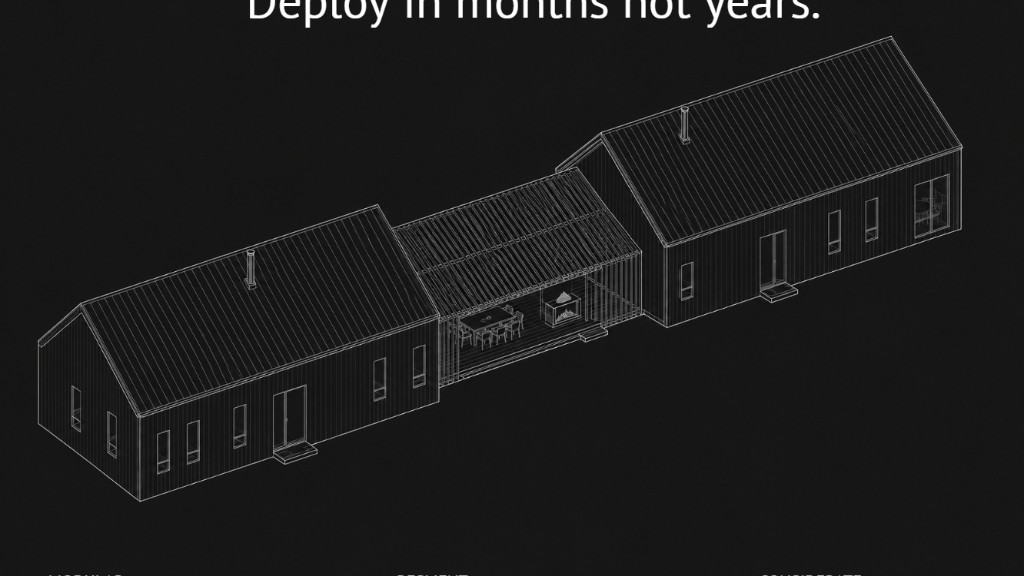
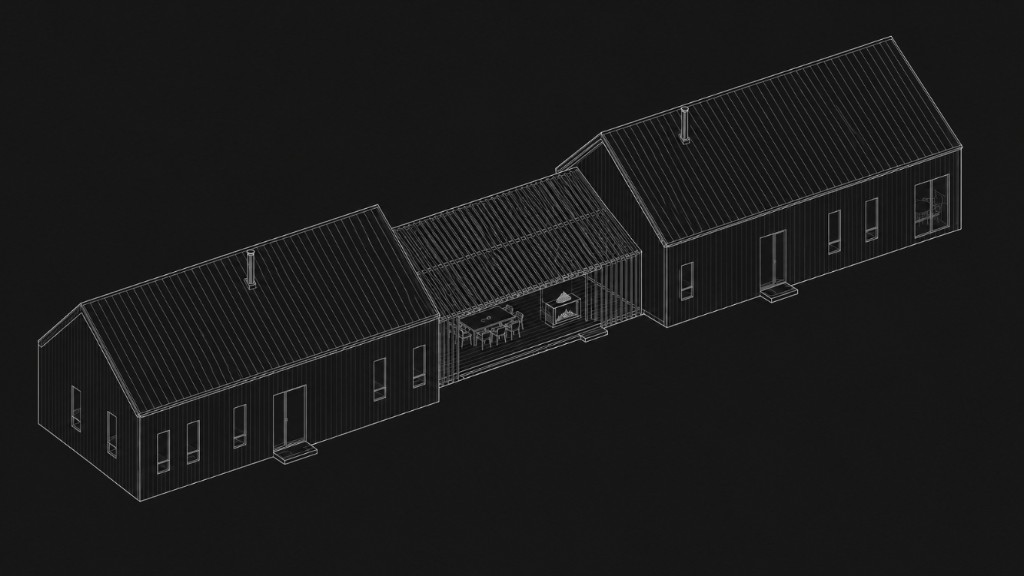
Use clean render and contain it fully on Deploy slide

Changed region(s): [[0.2188, 0.0, 0.8125, 0.0625]]

diff --git a/src/components/Section/Section.module.css b/src/components/Section/Section.module.css
@@ -188,12 +188,11 @@
 }
 
 /*
- * `cover` overscans the render so the faint baked-in header/labels at the
- * top and bottom edges of the source PNG are cropped, leaving the building
- * centered behind the live header and cards.
+ * `contain` keeps the render fully visible at its natural aspect ratio,
+ * centered within the stage between the header and the cards.
  */
 .deployImage {
-  object-fit: cover;
+  object-fit: contain;
   object-position: center;
 }
 